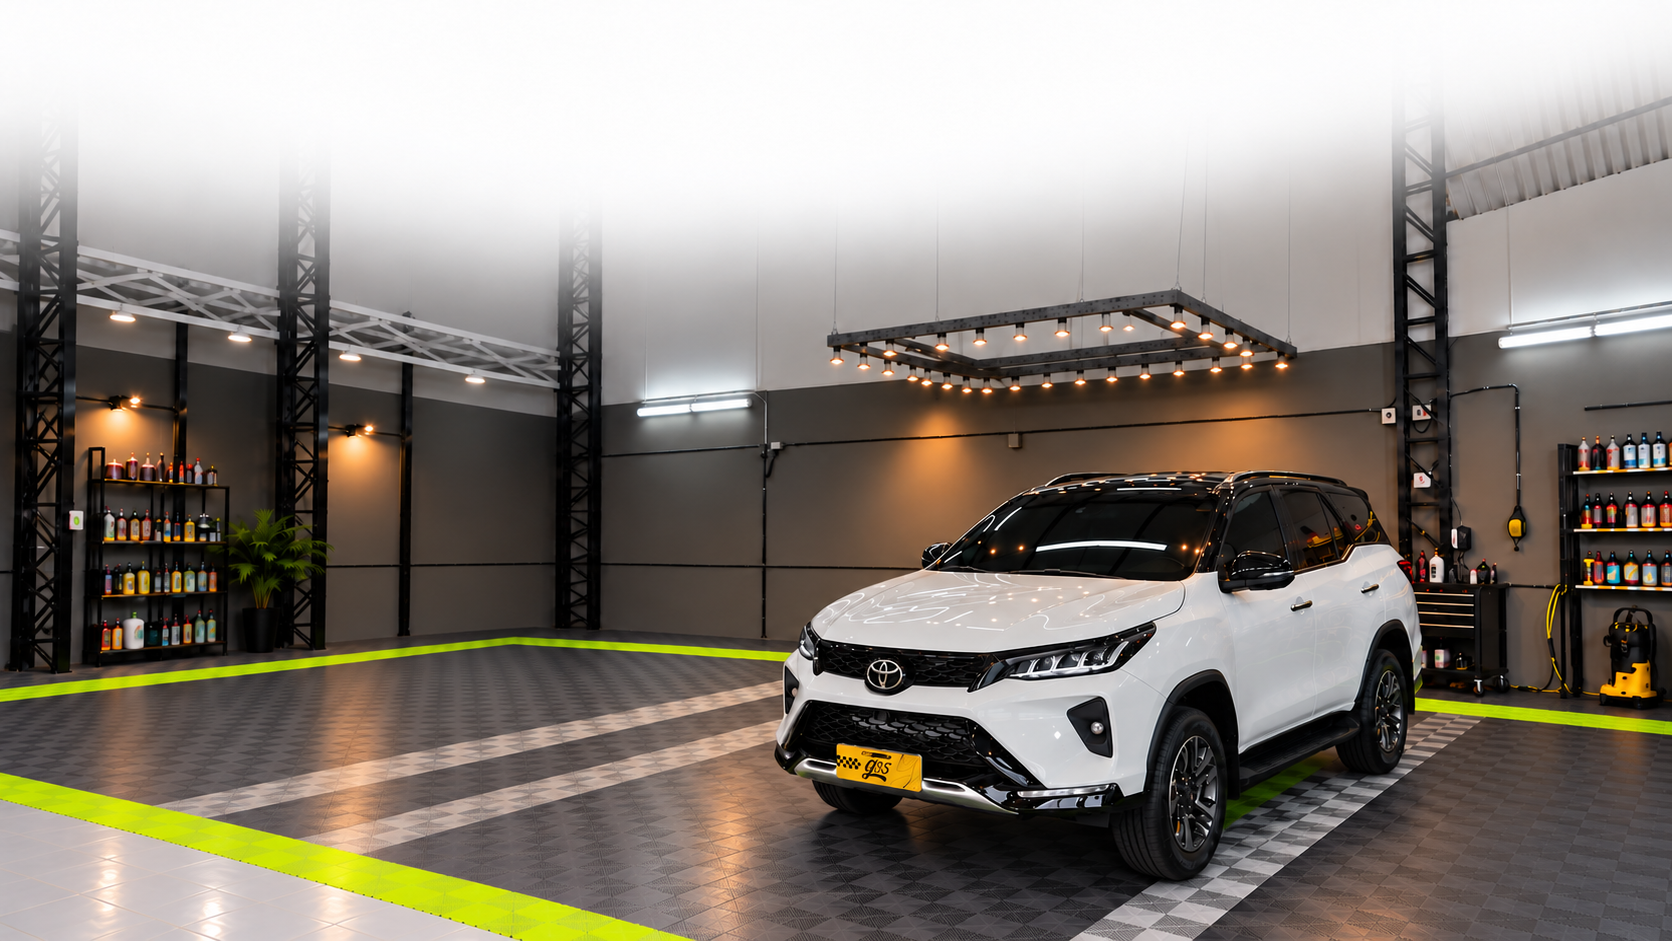
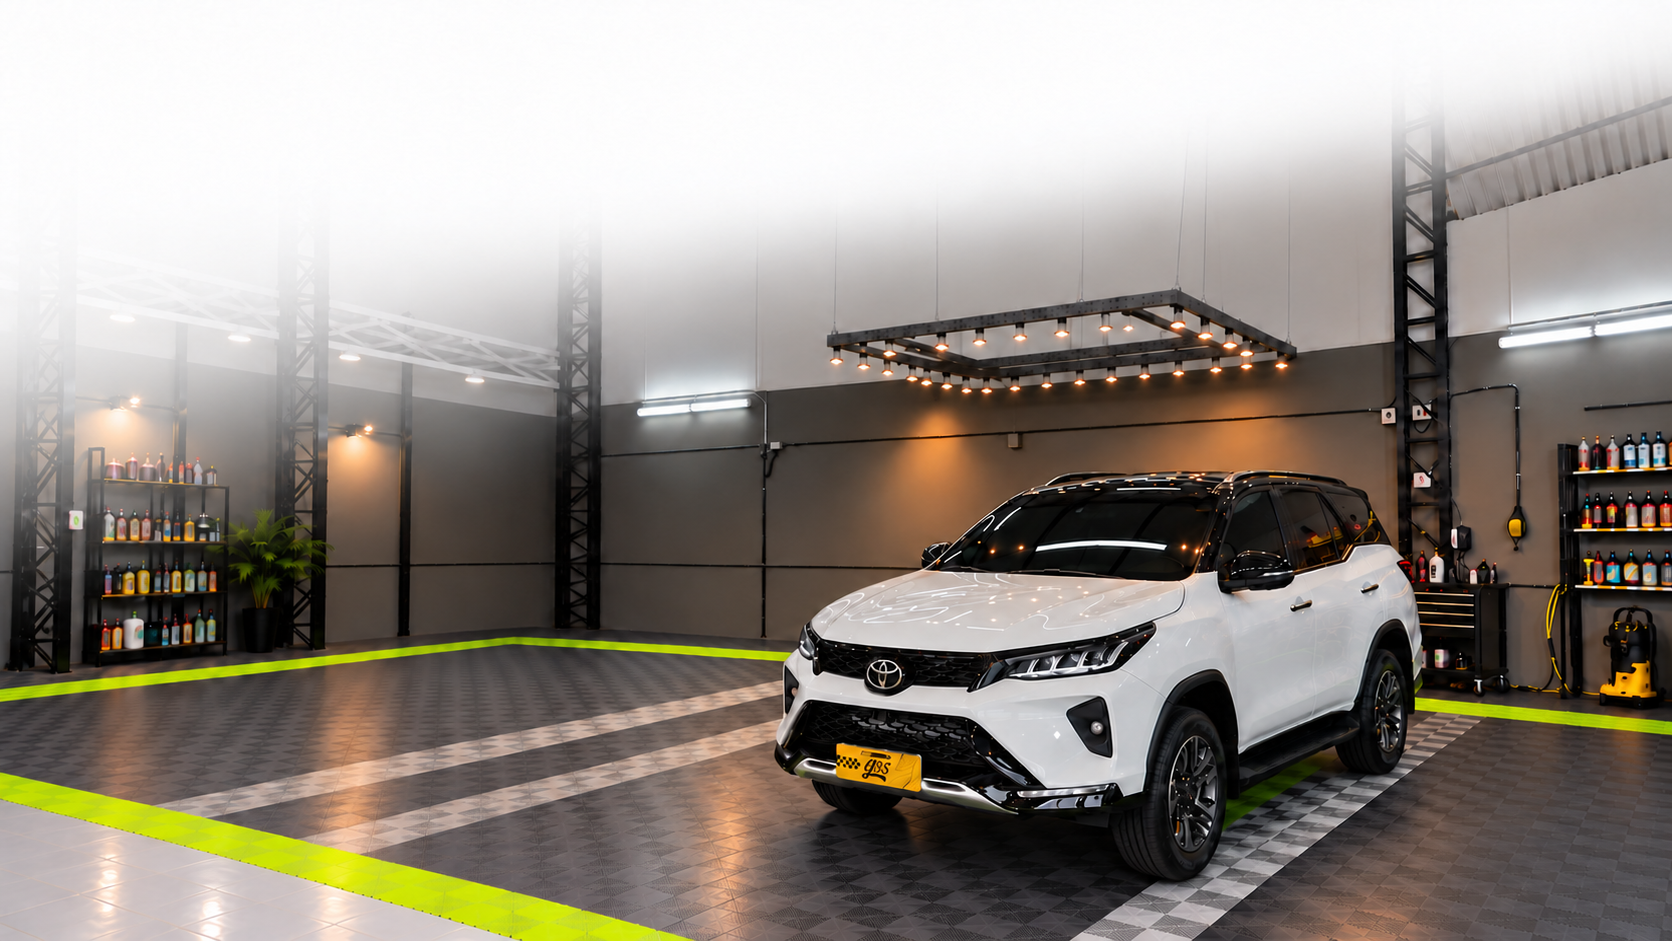
Hero desktop: nova imagem de fundo em WebP
Substitui o fundo da hero no desktop pela imagem enviada no main
(SUV na oficina sob suave gradiente branco), convertida para WebP.
Original PNG movido para assets/hero/png/hero-desktop-16x9.png.

Claude-Session: https://claude.ai/code/session_01V49PeJdfV3ykhn7DuoqmoA

diff --git a/index.html b/index.html
@@ -995,7 +995,7 @@ footer{background:#000;border-top:1px solid var(--line);padding:60px 0 40px}
   <picture class="hero__bg">
     <source media="(max-width:640px)" srcset="assets/hero/webp/hero-mobile-9x16.webp?v=2">
     <source media="(max-width:1100px)" srcset="assets/hero/webp/hero-tablet-ipad-3x4.webp?v=2">
-    <img src="assets/hero/webp/hero-desktop-16x9.webp?v=2" alt="Veículo no box de detalhamento do Studio G85" fetchpriority="high" decoding="async">
+    <img src="assets/hero/webp/hero-desktop-16x9.webp?v=3" alt="Veículo no box de detalhamento do Studio G85" fetchpriority="high" decoding="async">
   </picture>
   <div class="hero__shade" aria-hidden="true"></div>
 
